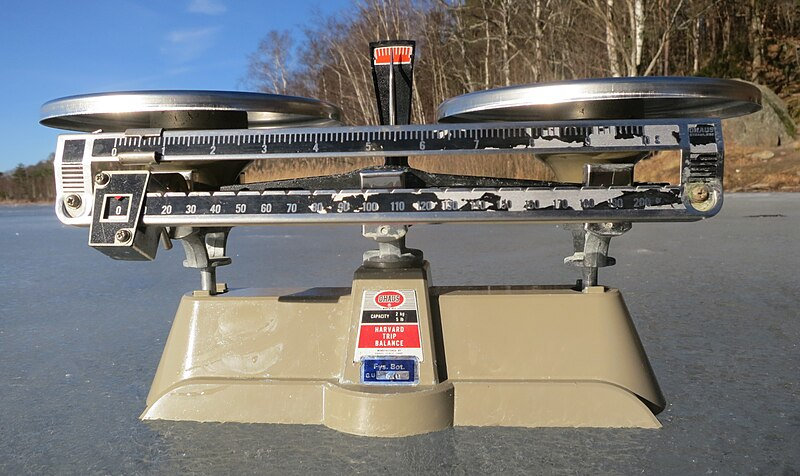
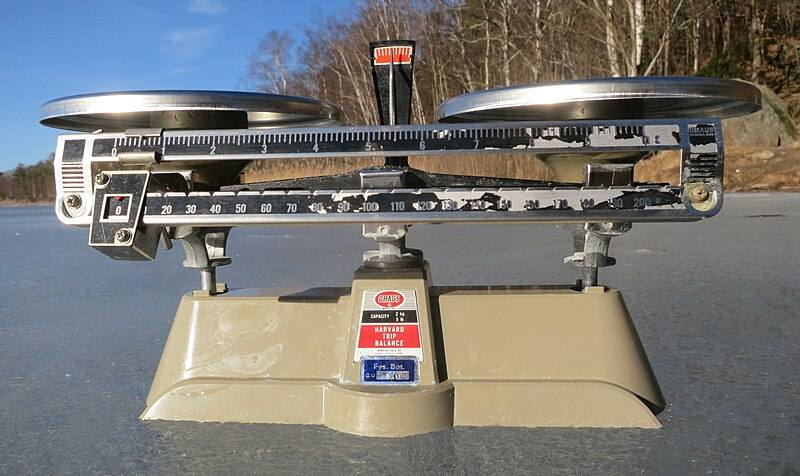
fix: 壓縮圖檔並縮小 PDF 輸出 (#28)
* fix: 壓縮講義圖檔並於列印前降解析度以縮小 PDF

大圖改 JPEG／縮邊長，列印與整本 PDF 另存前再壓一次，目標輸出低於 4MB。

* fix: 清除 2-3 全形公式字元以免靜態檢查失敗

---------

diff --git a/sections/2-3.html b/sections/2-3.html
@@ -95,7 +95,7 @@
           <text x="36" y="140" font-size="11">O</text>
           <text x="300" y="148" font-size="11">體積 %</text>
         </svg>
-        <p class="caption">橫軸 1%＝3 px：氮 \(78\times 3=234\)、氧 \(21\times 3=63\)、氬 \(0.9\times 3=2.7\)。其他 0.1% 只有 0.3 px，圖上幾乎看不見。</p>
+        <p class="caption">橫軸 1%=3 px：氮 \(78\times 3=234\)、氧 \(21\times 3=63\)、氬 \(0.9\times 3=2.7\)。其他 0.1% 只有 0.3 px，圖上幾乎看不見。</p>
       </figure>
       <section class="extra">
         <div class="ex-title"><span class="tag tag-purple">觀念補充</span> 國中必記：空氣最多的是氮</div>
@@ -245,7 +245,7 @@
       <p class="note">左邊講義原圖、右邊重繪版。</p>
       <div class="split compare-figs">
         <figure>
-          <img class="diagram diagram-photo" src="../img/2-3/thistle-funnel.png" alt="薊頭漏斗講義原圖">
+          <img class="diagram diagram-photo" src="../img/2-3/thistle-funnel.jpg" alt="薊頭漏斗講義原圖">
           <p class="caption">講義原圖</p>
         </figure>
         <figure>
@@ -314,7 +314,7 @@
             <text x="200" y="236" font-size="12" fill="#0f172a" font-weight="700">固體藥品置入瓶中並加水</text>
             <text x="170" y="254" text-anchor="middle" font-size="11" fill="#64748b">重繪版</text>
           </svg>
-          <p class="caption">重繪版：球狀薊頭、雙線玻璃長管、吸濾瓶側臂；紅圈＝沒入液面</p>
+          <p class="caption">重繪版：球狀薊頭、雙線玻璃長管、吸濾瓶側臂；紅圈表示沒入液面</p>
         </figure>
       </div>
       <ul class="q">
@@ -329,7 +329,7 @@
       <h3 class="subh">製備與檢測（排水集氣）</h3>
       <p class="note">上：講義原圖　｜　下：重繪版（請比較）</p>
       <figure class="gear-photo-single" style="max-width:100%">
-        <img class="diagram diagram-photo diagram-lg" src="../img/2-3/oxygen-prep-test.png" alt="氧氣製備講義原圖">
+        <img class="diagram diagram-photo diagram-lg" src="../img/2-3/oxygen-prep-test.jpg" alt="氧氣製備講義原圖">
         <p class="caption">講義原圖：排水集氣＋線香對照</p>
       </figure>
       <figure>
@@ -372,7 +372,7 @@
           <path d="M324 50 L 324 176" stroke="#0f172a" stroke-width="3" stroke-linecap="round"/>
           <path d="M324 50 L 324 176" stroke="#38bdf8" stroke-width="1.3" opacity=".6"/>
           <circle cx="324" cy="176" r="2.8" fill="#0f172a"/>
-          <!-- 滴管／手示意 -->
+          <!-- 滴管與手示意 -->
           <path d="M318 18 v12" stroke="#64748b" stroke-width="2"/>
           <ellipse cx="318" cy="14" rx="6" ry="5" fill="#fecaca" stroke="#b91c1c"/>
           <path d="M316 18 L 312 28 L 324 28 Z" fill="#e2e8f0" stroke="#64748b"/>
@@ -382,7 +382,7 @@
           <path d="M368 78 C 400 78 410 120 410 150 C 410 170 200 190 124 190" fill="none" stroke="#fb923c" stroke-width="2" opacity=".65"/>
           <circle cx="124" cy="190" r="3" fill="#c2410c"/>
           <!-- 標籤 -->
-          <text x="318" y="10" text-anchor="middle" font-size="11" fill="#0f172a" font-weight="700">純水／雙氧水</text>
+          <text x="318" y="10" text-anchor="middle" font-size="11" fill="#0f172a" font-weight="700">純水或雙氧水</text>
           <text x="330" y="228" text-anchor="middle" font-size="12" fill="#0f172a" font-weight="700">二氧化錳</text>
           <text x="128" y="248" text-anchor="middle" font-size="12" fill="#0369a1" font-weight="700">排水集氣法</text>
           <!-- 右側：線香檢測 -->
@@ -407,7 +407,7 @@
           <path d="M470 70 Q 478 78 486 84" fill="none" stroke="#dc2626" stroke-width="1.8" marker-end="url(#ox2-arr)"/>
           <text x="320" y="268" text-anchor="middle" font-size="12" fill="#57534e">重繪版：導管與薊頭漏斗皆為連續整根</text>
         </svg>
-        <p class="caption">重繪版：薊頭漏斗沒入液面、橡皮管連續接到倒立集氣瓶；右側線香比較氧氣／空氣</p>
+        <p class="caption">重繪版：薊頭漏斗沒入液面、橡皮管連續接到倒立集氣瓶；右側線香比較氧氣與空氣</p>
       </figure>
       <ul class="q">
         <li>收集方法：氧氣不易溶於水、密度小於水 →
@@ -457,7 +457,7 @@
       <p class="note">左邊講義原圖、右邊重繪版，請比較。</p>
       <div class="split compare-figs">
         <figure>
-          <img class="diagram diagram-photo" src="../img/2-3/co2-prep.png" alt="二氧化碳製備講義原圖">
+          <img class="diagram diagram-photo" src="../img/2-3/co2-prep.jpg" alt="二氧化碳製備講義原圖">
           <p class="caption">講義原圖</p>
         </figure>
         <figure>

diff --git a/js/app.js b/js/app.js
@@ -523,6 +523,52 @@
     return new Promise((resolve) => window.setTimeout(resolve, ms));
   }
 
+  /** 列印前把大圖壓成 JPEG，避免「另存為 PDF」塞進原圖導致檔案暴衝。 */
+  async function compressImagesForPrint(maxEdge = 960, quality = 0.72) {
+    const imgs = $$("img");
+    const backups = [];
+    const tasks = imgs.map(async (img) => {
+      try {
+        if (!img.complete || img.naturalWidth < 2) return;
+        const maxDim = Math.max(img.naturalWidth, img.naturalHeight);
+        const needsResize = maxDim > maxEdge;
+        const looksHeavy = /\.(png|PNG)$/.test(img.currentSrc || img.src || "") || needsResize;
+        if (!looksHeavy && maxDim <= maxEdge) return;
+        const scale = needsResize ? maxEdge / maxDim : 1;
+        const w = Math.max(1, Math.round(img.naturalWidth * scale));
+        const h = Math.max(1, Math.round(img.naturalHeight * scale));
+        const canvas = document.createElement("canvas");
+        canvas.width = w;
+        canvas.height = h;
+        const ctx = canvas.getContext("2d");
+        if (!ctx) return;
+        ctx.fillStyle = "#ffffff";
+        ctx.fillRect(0, 0, w, h);
+        ctx.drawImage(img, 0, 0, w, h);
+        const dataUrl = canvas.toDataURL("image/jpeg", quality);
+        if (!dataUrl || dataUrl.length < 32) return;
+        backups.push({
+          img,
+          src: img.getAttribute("src"),
+          srcset: img.getAttribute("srcset"),
+        });
+        img.removeAttribute("srcset");
+        img.src = dataUrl;
+      } catch (_err) {
+        /* 跨域或壞圖就略過，仍用原圖列印 */
+      }
+    });
+    await Promise.all(tasks);
+    return () => {
+      backups.forEach(({ img, src, srcset }) => {
+        if (src == null) img.removeAttribute("src");
+        else img.setAttribute("src", src);
+        if (srcset == null) img.removeAttribute("srcset");
+        else img.setAttribute("srcset", srcset);
+      });
+    };
+  }
+
   async function printPdf(withAnswers) {
     const snap = collectRevealState();
     const oldTitle = document.title;
@@ -562,6 +608,7 @@
     document.body.classList.add("is-printing");
     document.body.classList.toggle("is-print-answers", !!withAnswers);
     window.NotesLayout?.preparePrintFolios?.();
+    const restoreImages = await compressImagesForPrint();
     let restored = false;
     function restore() {
       if (restored) return;
@@ -569,6 +616,7 @@
       document.title = oldTitle;
       applyRevealState(snap);
       if (typeof restoreScale === "function") restoreScale();
+      if (typeof restoreImages === "function") restoreImages();
       document.body.classList.remove("is-printing", "is-print-answers");
       window.JPWNPrintFolios?.remove?.();
       window.dispatchEvent(new Event("jpwn-after-print"));

diff --git a/sections/4-5.html b/sections/4-5.html
@@ -528,7 +528,7 @@
         </tbody>
       </table>
       <figure class="gear-photo-single color-attrs-fig">
-        <img class="diagram" src="../img/4-5/hsv-cone.png" width="960" height="720" loading="lazy" alt="HSV 色立體圓錐：圓周是色相，向外是彩度（飽和度），向下尖端變暗表示明度降低">
+        <img class="diagram" src="../img/4-5/hsv-cone.jpg" width="960" height="720" loading="lazy" alt="HSV 色立體圓錐：圓周是色相，向外是彩度（飽和度），向下尖端變暗表示明度降低">
         <figcaption>圓周方向＝色相；離中心愈遠＝彩度愈高；愈往下尖端＝明度愈低（英文圖上的 Saturation 即彩度）</figcaption>
       </figure>
       <p class="caption">圖源 Wikimedia Commons（SharkD，<a href="https://creativecommons.org/licenses/by-sa/3.0/" target="_blank" rel="noopener">CC BY-SA 3.0</a>）：<a href="https://commons.wikimedia.org/wiki/File:HSV_color_solid_cone.png" target="_blank" rel="noopener">HSV color solid cone.png</a>。</p>
@@ -566,7 +566,7 @@
         </div>
         <p class="inquiry-ask"><strong>探究線索：</strong>要把紅蘋果「提亮」，直接加白比較自然，還是讓高光往黃色偏一點？用本節的反射、色光混合與眼睛看光來檢驗。</p>
         <figure class="gear-photo-single color-attrs-fig brighten-fig">
-          <img class="diagram" src="../img/4-5/brighten-compare.png" width="1024" height="576" loading="lazy" alt="對照：加白提亮變粉粉粉筆感；往黃色偏移提亮較鮮豔有光澤">
+          <img class="diagram" src="../img/4-5/brighten-compare.jpg" width="1024" height="576" loading="lazy" alt="對照：加白提亮變粉粉粉筆感；往黃色偏移提亮較鮮豔有光澤">
           <figcaption>左：加白＝沖淡（明度升、彩度降）；右：往黃偏移＝較像陽光高光（色相微移、仍鮮豔）</figcaption>
         </figure>
         <p class="caption">對照圖說明提亮時「加白」與「往黃偏移」的差異（教師補充教材）。</p>

diff --git a/js/book-pdf.js b/js/book-pdf.js
@@ -92,10 +92,46 @@ ${bodyBlock}
 <script>
 (function(){
   var done = false;
+  var MAX_EDGE = 960;
+  var JPEG_Q = 0.72;
+  function compressImages() {
+    var imgs = Array.prototype.slice.call(document.querySelectorAll("img"));
+    return Promise.all(imgs.map(function(img) {
+      return new Promise(function(resolve) {
+        function run() {
+          try {
+            if (!img.naturalWidth) return resolve();
+            var maxDim = Math.max(img.naturalWidth, img.naturalHeight);
+            var needsResize = maxDim > MAX_EDGE;
+            var isPng = /\\.png($|\\?)/i.test(img.currentSrc || img.src || "");
+            if (!needsResize && !isPng) return resolve();
+            var scale = needsResize ? (MAX_EDGE / maxDim) : 1;
+            var w = Math.max(1, Math.round(img.naturalWidth * scale));
+            var h = Math.max(1, Math.round(img.naturalHeight * scale));
+            var canvas = document.createElement("canvas");
+            canvas.width = w; canvas.height = h;
+            var ctx = canvas.getContext("2d");
+            if (!ctx) return resolve();
+            ctx.fillStyle = "#fff";
+            ctx.fillRect(0, 0, w, h);
+            ctx.drawImage(img, 0, 0, w, h);
+            img.removeAttribute("srcset");
+            img.src = canvas.toDataURL("image/jpeg", JPEG_Q);
+          } catch (e) {}
+          resolve();
+        }
+        if (img.complete) run();
+        else {
+          img.addEventListener("load", run, {once:true});
+          img.addEventListener("error", function(){ resolve(); }, {once:true});
+        }
+      });
+    }));
+  }
   function go() {
     if (done) return;
     done = true;
-    window.print();
+    compressImages().then(function(){ window.print(); }).catch(function(){ window.print(); });
   }
   function boot() {
     if (document.fonts && document.fonts.ready) {

diff --git a/sections/5-1.html b/sections/5-1.html
@@ -101,7 +101,7 @@
       </div>
       <p class="caption">左：液體熱脹冷縮（水銀計同一原理）。右：測紅外線，耳溫計、額溫計也是這一套。照片：Wikimedia Commons（CC BY-SA）</p>
       <figure>
-        <img class="diagram diagram-photo" src="../img/5-1/alcohol-thermometer-structure.png" width="720" height="960" alt="酒精溫度計構造：感溫泡、酒精、毛細管、刻度標尺、安全泡" style="max-height:420px;background:#fff">
+        <img class="diagram diagram-photo" src="../img/5-1/alcohol-thermometer-structure.jpg" width="720" height="960" alt="酒精溫度計構造：感溫泡、酒精、毛細管、刻度標尺、安全泡" style="max-height:420px;background:#fff">
         <p class="caption">依實物構造標示：感溫泡貯存染紅酒精，溫度變化時液柱在毛細管升降；刻度標尺讀溫度，頂端安全泡防止脹裂。</p>
       </figure>
       <section class="extra">
@@ -205,7 +205,7 @@
           </table>
         </div>
         <figure>
-          <img class="diagram diagram-photo" src="../img/5-1/diy-thermometer-setup.png" width="1024" height="768" alt="自製溫度計：燒杯水浴內放錐形瓶，橡膠塞插細玻璃管，紅墨水液柱" style="max-height:360px;background:#fff">
+          <img class="diagram diagram-photo" src="../img/5-1/diy-thermometer-setup.jpg" width="1024" height="768" alt="自製溫度計：燒杯水浴內放錐形瓶，橡膠塞插細玻璃管，紅墨水液柱" style="max-height:360px;background:#fff">
           <p class="caption">實驗裝置（依真實器材繪製）：錐形瓶裝滿紅墨水，橡膠塞插細玻璃管，整組浸在燒杯水浴中觀察液柱升降。細管愈細，同樣體積變化造成的高度差愈大，愈靈敏。</p>
         </figure>
       </div>

diff --git a/sections/4-4.html b/sections/4-4.html
@@ -249,11 +249,11 @@
       </table>
       <div class="gear-photos gear-photos-pair eye-defect-figs" role="group" aria-label="近視與遠視成像示意圖">
         <figure>
-          <img class="diagram" src="../img/4-4/myopia-correction.png" width="491" height="678" loading="lazy" alt="近視眼：像落在視網膜前方，戴凹透鏡矯正（上圖未矯正、下圖戴凹透鏡）">
+          <img class="diagram" src="../img/4-4/myopia-correction.jpg" width="491" height="678" loading="lazy" alt="近視眼：像落在視網膜前方，戴凹透鏡矯正（上圖未矯正、下圖戴凹透鏡）">
           <figcaption>近視：像在視網膜<strong>前</strong>，戴<strong>凹</strong>透鏡</figcaption>
         </figure>
         <figure>
-          <img class="diagram" src="../img/4-4/hyperopia-correction.png" width="491" height="678" loading="lazy" alt="遠視眼：像落在視網膜後方，戴凸透鏡矯正（上圖未矯正、下圖戴凸透鏡）">
+          <img class="diagram" src="../img/4-4/hyperopia-correction.jpg" width="491" height="678" loading="lazy" alt="遠視眼：像落在視網膜後方，戴凸透鏡矯正（上圖未矯正、下圖戴凸透鏡）">
           <figcaption>遠視：像在視網膜<strong>後</strong>，戴<strong>凸</strong>透鏡</figcaption>
         </figure>
       </div>

diff --git a/sections/3-4.html b/sections/3-4.html
@@ -334,7 +334,7 @@
           <li><strong>閉管</strong>（一端封閉）：開口是<strong>波腹</strong>、封閉端是<strong>波節</strong>。基頻 \(L=\dfrac{\lambda}{4}\)，\(f=\dfrac{v}{4L}\)；只有奇數倍諧波 \(L=\dfrac{3}{4}\lambda\)、\(L=\dfrac{5}{4}\lambda\ldots\)（見下圖下排）。管子愈短，音調愈高。</li>
         </ul>
         <figure>
-          <img class="diagram diagram-photo" src="../img/3-4/open-closed-pipes.png" width="900" height="620" alt="開管與閉管氣柱駐波：上排開管兩端波腹；下排閉管上開下封，封閉端波節、開口波腹" style="max-height:520px">
+          <img class="diagram diagram-photo" src="../img/3-4/open-closed-pipes.jpg" width="900" height="620" alt="開管與閉管氣柱駐波：上排開管兩端波腹；下排閉管上開下封，封閉端波節、開口波腹" style="max-height:520px">
           <p class="caption">藍線＝管壁；紅線＝位移駐波包絡（交會處為波節，最寬處為波腹）。開管 \(L=\dfrac{\lambda}{2},\lambda,\dfrac{3}{2}\lambda\)；閉管 \(L=\dfrac{\lambda}{4},\dfrac{3}{4}\lambda,\dfrac{5}{4}\lambda\)。</p>
         </figure>
       </section>

diff --git a/sections/lab-5-1.html b/sections/lab-5-1.html
@@ -237,7 +237,7 @@
           <p class="lab-record">記錄冰水、溫水、加熱 5 分鐘後的水位高度。</p>
           <p class="lab-caution">不要看放進去的第一秒；玻璃和裡面的水脹縮有先後，要等穩定。</p>
           <figure>
-            <img class="diagram diagram-photo" src="../img/5-1/diy-thermometer-compare.png" width="1376" height="768" alt="冰水、溫水、熱水三種水浴下自製溫度計液柱由低到高" style="max-height:300px;background:#fff">
+            <img class="diagram diagram-photo" src="../img/5-1/diy-thermometer-compare.jpg" width="1376" height="768" alt="冰水、溫水、熱水三種水浴下自製溫度計液柱由低到高" style="max-height:300px;background:#fff">
             <p class="caption">溫度愈高，液柱愈高（等穩定以後）。左冰水、中溫水、右熱水。</p>
           </figure>
         </li>

diff --git a/sections/2-1.html b/sections/2-1.html
@@ -608,7 +608,7 @@
       </ol>
       <div class="split">
         <figure>
-          <img class="diagram diagram-photo" src="../img/2-1/filtration-setup.png" width="482" height="428" alt="講義原圖：上手燒杯沿整根玻璃棒引流，棒端輕靠濾紙；漏斗頸下端緊貼燒杯內壁，下杯收集濾液">
+          <img class="diagram diagram-photo" src="../img/2-1/filtration-setup.jpg" width="482" height="428" alt="講義原圖：上手燒杯沿整根玻璃棒引流，棒端輕靠濾紙；漏斗頸下端緊貼燒杯內壁，下杯收集濾液">
           <p class="caption">玻璃棒輕靠濾紙；漏斗頸下端緊貼燒杯內壁（講義原圖）</p>
         </figure>
         <div>
